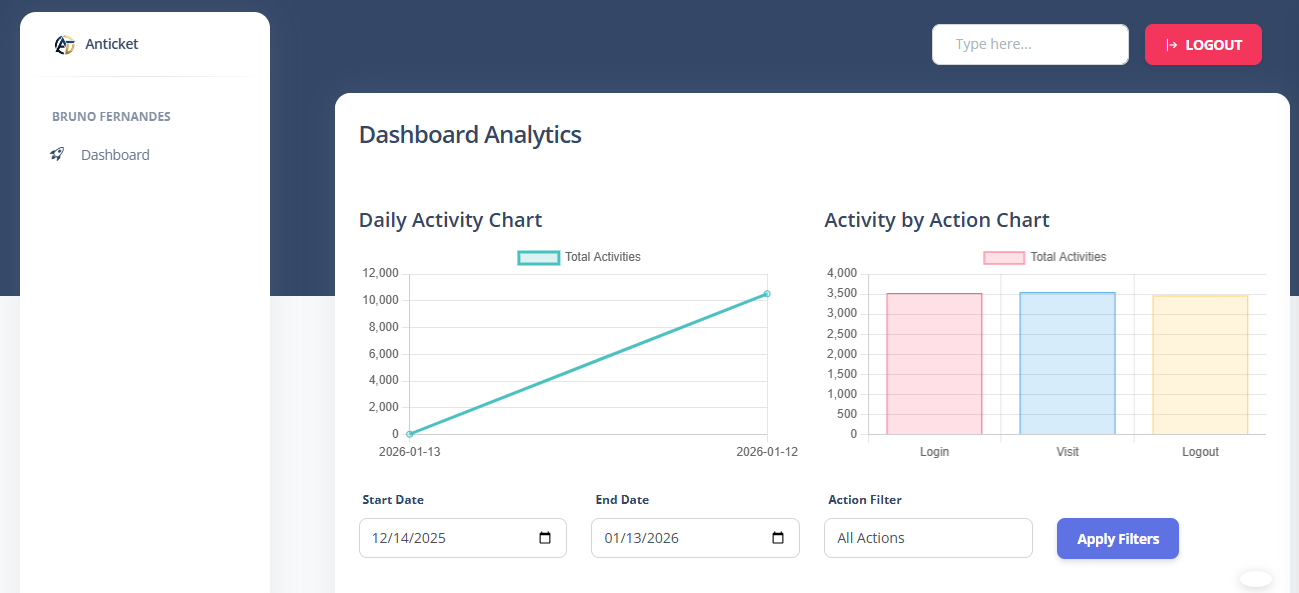
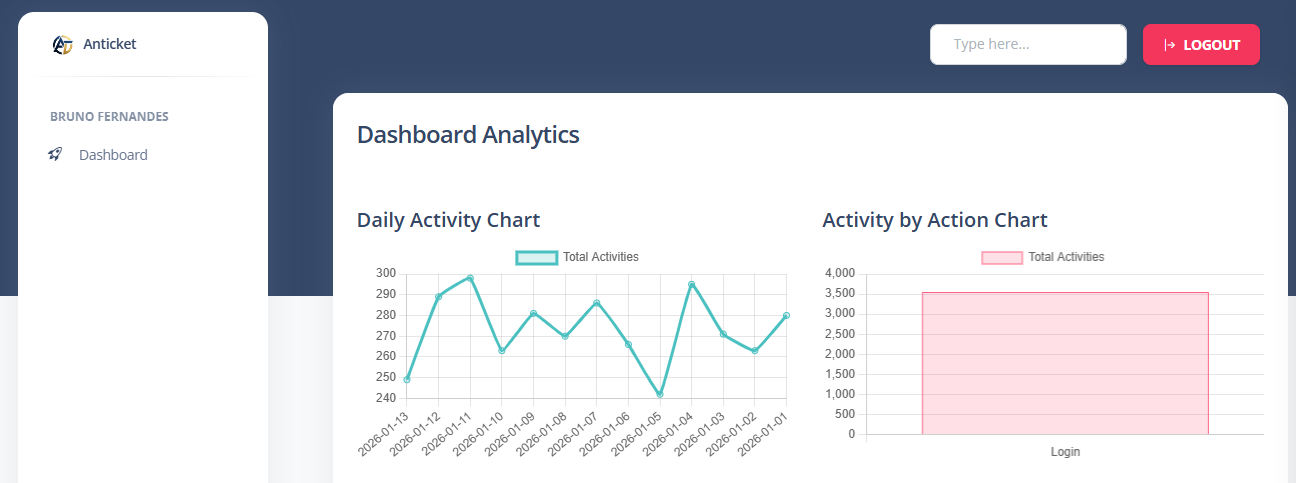
Improve Seeder Activities + Update readme.md

diff --git a/database/seeders/ActivitiesTableSeeder.php b/database/seeders/ActivitiesTableSeeder.php
@@ -2,6 +2,7 @@
 
 namespace Database\Seeders;
 
+use Carbon\Carbon;
 use Illuminate\Database\Seeder;
 use Illuminate\Support\Facades\DB;
 use Illuminate\Support\Facades\Log;
@@ -32,13 +33,20 @@ class ActivitiesTableSeeder extends Seeder
         }
         
         for ($i = 1; $i <= 10500; $i++) {
+            $day = rand(1, 13);
+            $hour = rand(0, 23);
+            $minute = rand(0, 59);
+            $second = rand(0, 59);
+            
+            $randomDateTime = "2026-01-{$day} {$hour}:{$minute}:{$second}";
+
             $activities[] = [
                 'user_id' => $userIds[array_rand($userIds)],
                 'action' => $actions[array_rand($actions)],
                 'page' => $pages[array_rand($pages)],
                 'ip_address' => fake()->ipv4(),
-                'created_at' => now(),
-                'updated_at' => now(),
+                'created_at' => $randomDateTime,
+                'updated_at' => $randomDateTime
             ];
             
             // Batching per 1000 data agar optimize
